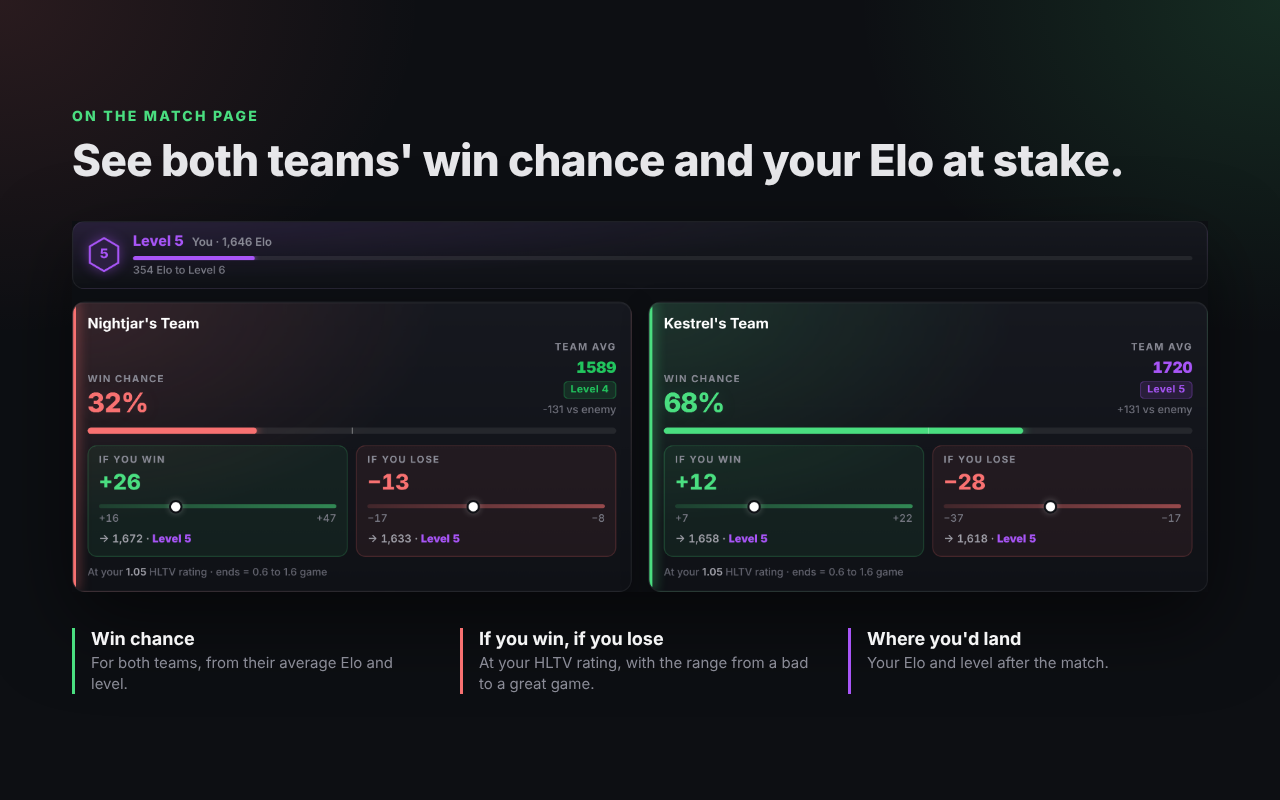
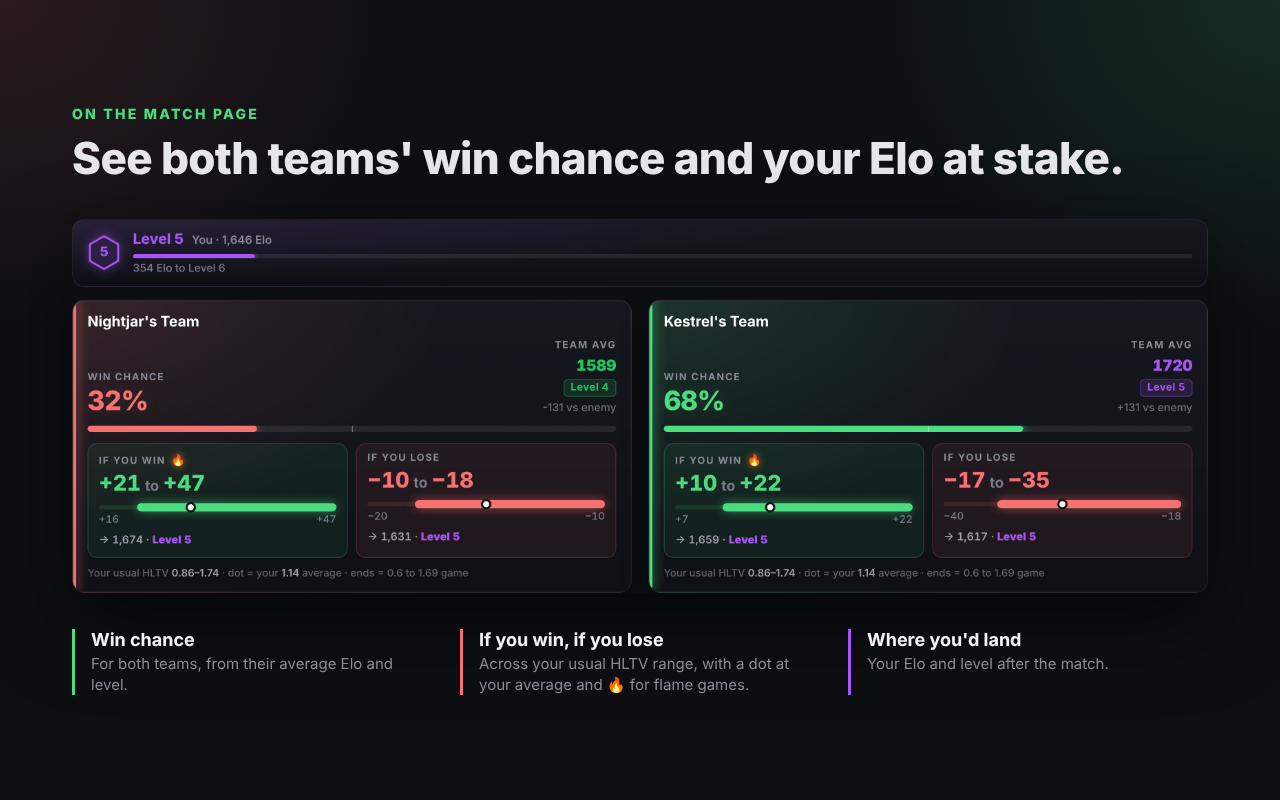
Refresh store screenshots for 1.7 (v1.7.1) (#21)
Match and popup store images now show the usual HLTV range with a flame game,
re-rendered from the real content.js and popup.html.

Claude-Session: https://claude.ai/code/session_01CYZSFdyHUfKMeFEu772JvL

diff --git a/store/render-cards.js b/store/render-cards.js
@@ -7,7 +7,7 @@ const path = require("path");
   const browser = await chromium.launch();
   const page = await browser.newPage({ viewport: { width: 1140, height: 700 }, deviceScaleFactor: 3 });
   await page.addInitScript(() => {
-    const sync = { on: true, rating: 1.05, ratingAuto: true, myElo: 1646, ratingLow: 0.78, ratingHigh: 1.36 };
+    const sync = { on: true, rating: 1.14, ratingAuto: true, myElo: 1646, ratingLow: 0.86, ratingHigh: 1.74 };
     const area = (data) => ({ get: (d, cb) => cb({ ...d, ...Object.fromEntries(Object.keys(d).filter((k) => k in data).map((k) => [k, data[k]])) }), set: () => {} });
     window.chrome = { runtime: { id: "demo" }, storage: { sync: area(sync), local: area({}), onChanged: { addListener() {} } } };
   });

diff --git a/store/popup-showcase.html b/store/popup-showcase.html
@@ -30,7 +30,7 @@
     <ul>
       <li style="--c:#a855f7"><b>Your level, live</b><span>Badge, Elo and progress to the next level, read from karasu.live.</span></li>
       <li style="--c:#f97316"><b>Levels preview</b><span>The whole ladder from Level 1 to Ultimate, with your spot marked.</span></li>
-      <li style="--c:#4ade80"><b>Your HLTV rating</b><span>Filled in from your profile, with what an even match wins or loses.</span></li>
+      <li style="--c:#4ade80"><b>Your HLTV rating</b><span>Your usual range from your profile, with what an even match wins or loses.</span></li>
       <li style="--c:#b1c3d9"><b>Auto-accept</b><span>Optional, with your own delay.</span></li>
     </ul>
   </div>

diff --git a/store/match-showcase.html b/store/match-showcase.html
@@ -23,7 +23,7 @@
   <div class="shot"><img src="match-cards.png" alt=""></div>
   <ul>
     <li style="--c:#4ade80"><b>Win chance</b><span>For both teams, from their average Elo and level.</span></li>
-    <li style="--c:#f87171"><b>If you win, if you lose</b><span>At your HLTV rating, with the range from a bad to a great game.</span></li>
+    <li style="--c:#f87171"><b>If you win, if you lose</b><span>Across your usual HLTV range, with a dot at your average and 🔥 for flame games.</span></li>
     <li style="--c:#a855f7"><b>Where you'd land</b><span>Your Elo and level after the match.</span></li>
   </ul>
 </body></html>

diff --git a/store/render-popup.js b/store/render-popup.js
@@ -3,7 +3,7 @@
 const { chromium } = require("playwright");
 const path = require("path");
 const shots = [
-  { name: "popup-closed", sync: { myElo: 1646, rating: 1.05, ratingAuto: true, ratingLow: 0.78, ratingHigh: 1.36, autoAccept: true, acceptDelay: 2 }, open: false },
+  { name: "popup-closed", sync: { myElo: 1646, rating: 1.14, ratingAuto: true, ratingLow: 0.86, ratingHigh: 1.74, autoAccept: true, acceptDelay: 2 }, open: false },
   { name: "popup-levels", sync: { myElo: 2530, rating: 1.2, ratingAuto: true, ratingLow: 0.91, ratingHigh: 1.52, autoAccept: false, acceptDelay: 2 }, open: true },
 ];
 (async () => {
